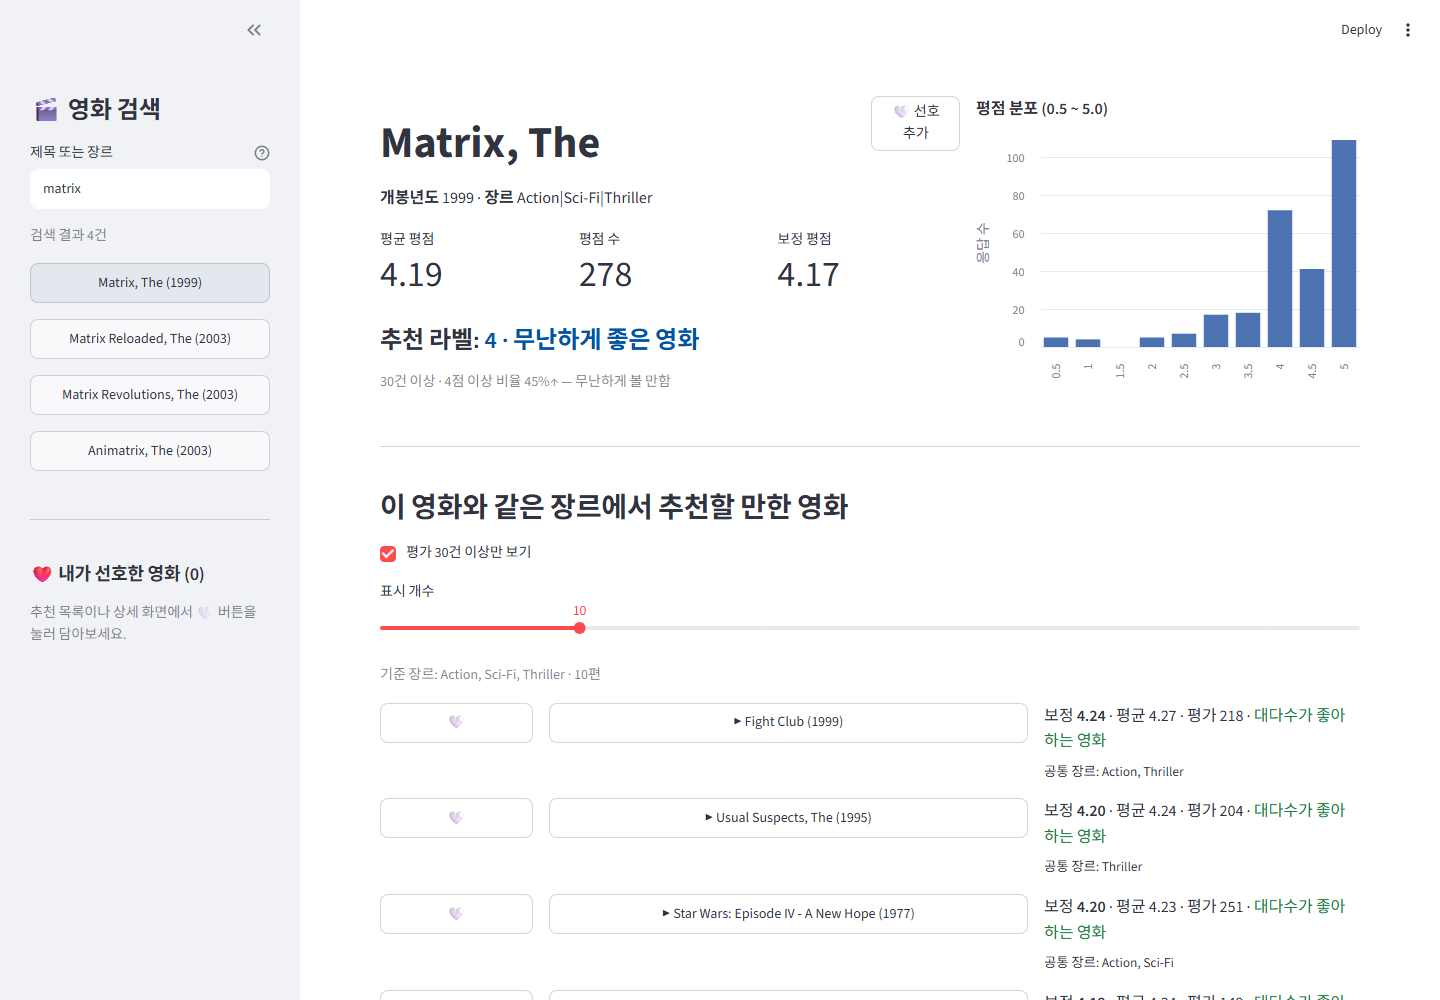
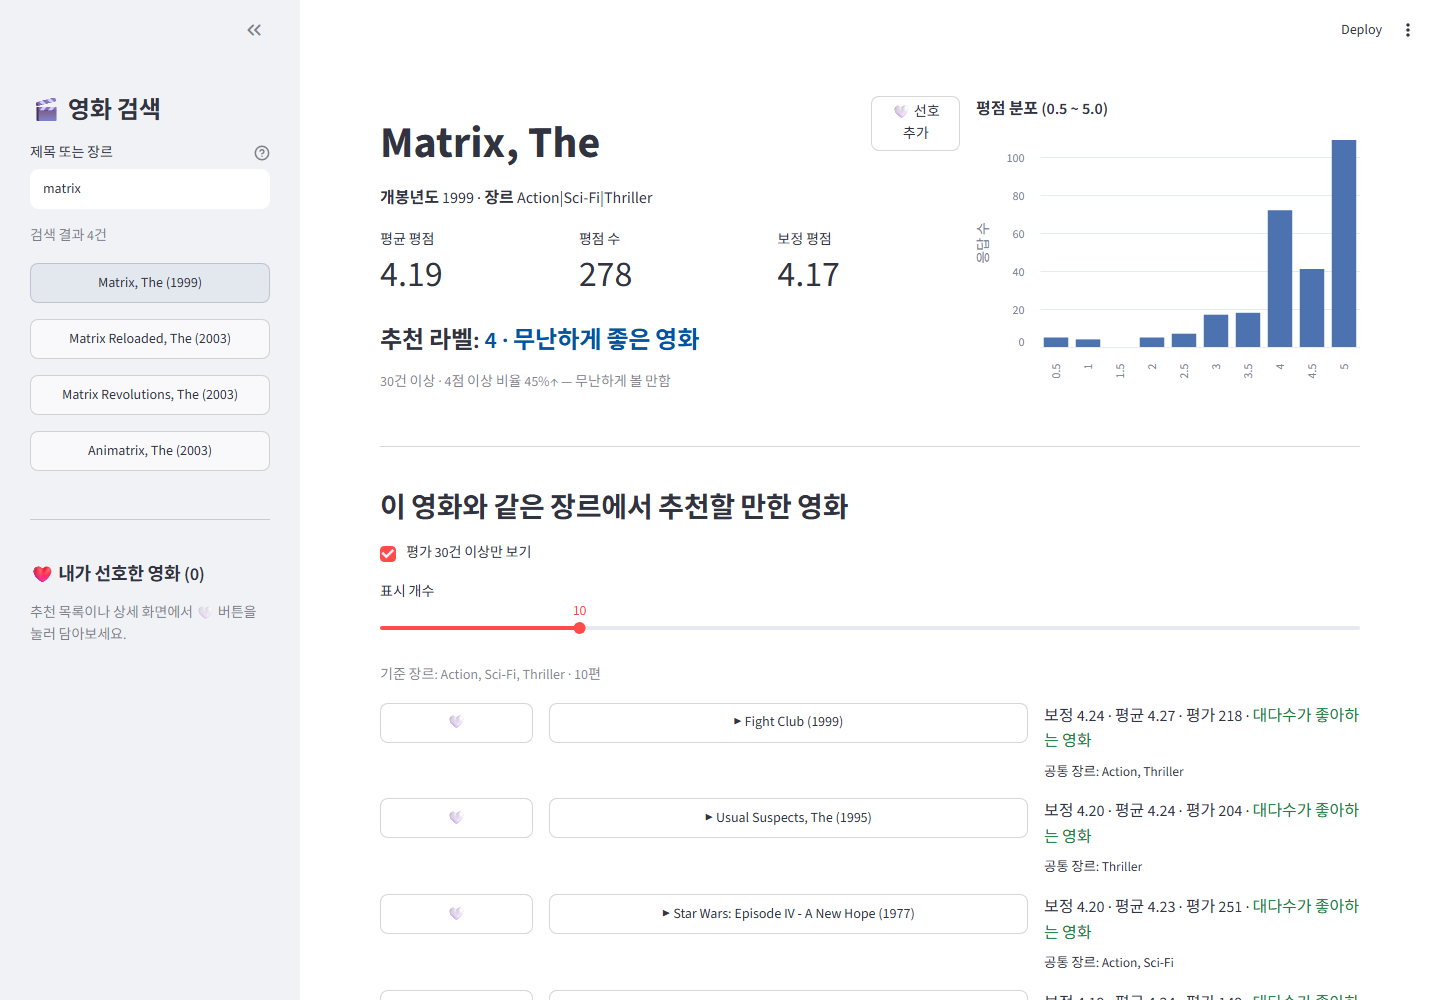
선호 영화 프로필(평균 장르 벡터) 기반 추천 섹션 추가
- streamlit_app.py: 선호 영화들의 장르 원-핫 벡터를 합산 후 선호 영화 수로 나눈
  '선호 장르 프로필' 벡터 생성 (build_favorite_profile), 코사인 유사도로 전체 영화 순위화
  - 유사도 0(겹치는 장르 없음/장르 정보 없음) 및 이미 선호한 영화는 제외
  - 동점은 bayesian_rating 내림차순
  - 첫 화면과 상세 화면 하단에 항상 노출
  - 행 렌더링 로직을 render_movie_row() 로 공통화(세 섹션 재사용)
- analysis/capture_dashboard.py: app_06_profile.png 캡처 추가
- README.md: 8-6 섹션 및 개요 문구 갱신

diff --git a/streamlit_app.py b/streamlit_app.py
@@ -8,6 +8,8 @@ data/processed/ 산출물을 바탕으로
   4) 영화 선택 시 상세: 제목·장르·개봉년도·평점 분포 막대그래프·평균 평점·추천 라벨
   5) 추천 리스트(및 상세)에서 하트 버튼으로 "선호 영화"에 담고, 사이드바에서 목록 확인
      (세션에만 저장 — 브라우저 새로고침/재시작 시 초기화됨)
+  6) 선호 영화가 여러 편이면, 그 영화들의 장르 원-핫 벡터를 합산한 뒤 선호 영화 수로
+     나눈 "선호 장르 프로필" 벡터를 만들어 별도로 추천 ("내 선호 영화 프로필 기반 추천")
 
 실행: 프로젝트 루트에서
     streamlit run streamlit_app.py
@@ -65,19 +67,33 @@ def load_genre_matrix() -> pd.DataFrame:
     return df.set_index("movieId")[genre_cols]
 
 
-def cosine_similarity_to(mid: int, matrix: pd.DataFrame) -> pd.Series | None:
-    """mid 의 장르 벡터와 matrix 의 모든 행 사이의 코사인 유사도.
-    mid 가 없거나 장르 정보가 전부 0(장르 없음)이면 None."""
-    if mid not in matrix.index:
-        return None
-    vec = matrix.loc[mid].to_numpy(dtype=float)
-    if vec.sum() == 0:
+def cosine_similarity_vec(vec, matrix: pd.DataFrame) -> pd.Series | None:
+    """vec(장르 원-핫/프로필 벡터) 와 matrix 의 모든 행 사이 코사인 유사도.
+    vec 이 전부 0(장르 정보 없음)이면 None."""
+    if vec is None or np.sum(vec) == 0:
         return None
     mat = matrix.to_numpy(dtype=float)
     dot = mat @ vec
     norms = np.linalg.norm(mat, axis=1) * np.linalg.norm(vec)
     sim = np.divide(dot, norms, out=np.zeros_like(dot, dtype=float), where=norms > 0)
     return pd.Series(sim, index=matrix.index, name="cosine_sim")
+
+
+def cosine_similarity_to(mid: int, matrix: pd.DataFrame) -> pd.Series | None:
+    """mid 영화의 장르 벡터 기준 코사인 유사도. mid 가 없으면 None."""
+    if mid not in matrix.index:
+        return None
+    return cosine_similarity_vec(matrix.loc[mid].to_numpy(dtype=float), matrix)
+
+
+def build_favorite_profile(fav_ids, matrix: pd.DataFrame) -> np.ndarray | None:
+    """선호 영화들의 장르 원-핫 벡터를 합산한 뒤 선호 영화 수로 나눈 평균 벡터.
+    (열별로 '이 장르를 가진 선호작의 비율'이 된다.) 유효한 선호작이 없으면 None."""
+    ids = [i for i in fav_ids if i in matrix.index]
+    if not ids:
+        return None
+    vecs = matrix.loc[ids].to_numpy(dtype=float)
+    return vecs.sum(axis=0) / len(ids)
 
 
 @st.cache_data
@@ -132,6 +148,87 @@ def toggle_favorite(mid: int):
         favs.discard(mid)
     else:
         favs.add(mid)
+
+
+def render_movie_row(row: pd.Series, key_prefix: str) -> None:
+    """하트 버튼 + 이동 버튼 + 요약 정보 한 줄. 여러 추천 리스트에서 공통으로 쓴다."""
+    yr = "" if pd.isna(row["release_year"]) else f" ({int(row['release_year'])})"
+    lab = int(row["rating_label"])
+    rid = row["movieId"]
+    is_fav = rid in st.session_state.favorites
+
+    col_fav, col_btn, col_info = st.columns([1, 3, 2])
+    col_fav.button(
+        "❤" if is_fav else "🤍",
+        key=f"fav_{key_prefix}_{rid}",
+        use_container_width=True,
+        on_click=toggle_favorite, args=(rid,),
+        help="선호 영화에서 제거" if is_fav else "선호 영화에 추가",
+    )
+    col_btn.button(
+        f"▶  {row['title']}{yr}",
+        key=f"go_{key_prefix}_{rid}",
+        use_container_width=True,
+        on_click=select_movie,
+        args=(rid,),
+    )
+
+    bits = []
+    if "cosine_sim" in row.index and pd.notna(row["cosine_sim"]):
+        bits.append(f"유사도 **{row['cosine_sim']:.3f}**")
+    bits.append(f"보정 {row['bayesian_rating']:.2f}")
+    bits.append(f"평균 {'-' if pd.isna(row['mean_rating']) else format(row['mean_rating'], '.2f')}")
+    bits.append(f"평가 {int(row['rating_count'])}")
+    bits.append(f":{LABEL_COLOR.get(lab, 'gray')}[{LABELS.get(lab, lab)}]")
+    line = " · ".join(bits)
+    if "shared" in row.index and row["shared"]:
+        line += f"  \n<sub>공통 장르: {', '.join(row['shared'])}</sub>"
+    col_info.markdown(line, unsafe_allow_html=True)
+
+
+def render_profile_section() -> None:
+    """선호 영화들의 평균 장르 벡터(프로필)로 만드는 추천 — 어느 화면에서든 표시."""
+    fav_ids = st.session_state.favorites
+    st.subheader("내 선호 영화 프로필 기반 추천")
+
+    if not fav_ids:
+        st.caption(
+            "❤ 선호 영화를 1편 이상 담으면, 선호작들의 장르를 (합산 ÷ 선호 영화 수)로 "
+            "평균 낸 '선호 장르 프로필' 벡터로 추천을 만들어 보여줍니다."
+        )
+        return
+    if genre_matrix is None:
+        st.info(f"`{GENRE_ONEHOT_CSV.relative_to(ROOT)}` 가 없습니다. `python run_all.py` 로 생성하세요.")
+        return
+
+    profile = build_favorite_profile(fav_ids, genre_matrix)
+    sims = cosine_similarity_vec(profile, genre_matrix)
+    if sims is None:
+        st.info("선호한 영화들에 장르 정보가 없어 프로필을 만들 수 없습니다.")
+        return
+
+    prof = pd.Series(profile, index=genre_matrix.columns)
+    prof = prof[prof > 0].sort_values(ascending=False)
+    st.caption(
+        f"선호 영화 {len(fav_ids)}편의 장르 평균(비율): "
+        + ", ".join(f"{g} {v:.0%}" for g, v in prof.items())
+    )
+
+    sims = sims.drop(index=[i for i in fav_ids if i in sims.index], errors="ignore")
+    sims = sims[sims > 0]  # 겹치는 장르가 하나도 없거나 장르 정보 없는 영화 제외
+
+    prof_df = pd.DataFrame({"movieId": sims.index, "cosine_sim": sims.to_numpy()})
+    prof_df = prof_df.merge(movies, on="movieId", how="left")
+    prof_df = prof_df.sort_values(
+        ["cosine_sim", "bayesian_rating"], ascending=[False, False]
+    )
+
+    topn_prof = st.slider("표시 개수", 5, 30, 10, key="profile_topn")
+    st.caption(f"프로필과 겹치는 영화 {len(prof_df)}편 중 상위 {min(topn_prof, len(prof_df))}편 "
+               "(선호 영화 자신은 제외)")
+
+    for _, row in prof_df.head(topn_prof).iterrows():
+        render_movie_row(row, "profile")
 
 
 # ----------------------------- 사이드바: 검색 -----------------------------
@@ -198,8 +295,11 @@ if mid is None or mid not in set(movies["movieId"]):
         "왼쪽에서 영화를 검색하고 선택하세요.\n\n"
         "- **검색**: 제목·장르로 찾기 (평가 수 무관)\n"
         "- **추천**: 선택한 영화와 같은 장르에서 보정 평점이 높은 영화\n"
-        "- **상세**: 제목·장르·개봉년도·평점 분포·평균 평점·추천 라벨"
+        "- **상세**: 제목·장르·개봉년도·평점 분포·평균 평점·추천 라벨\n"
+        "- **프로필 추천**: 선호 영화를 담을수록 아래 프로필 추천이 정교해집니다."
     )
+    st.markdown("---")
+    render_profile_section()
     st.stop()
 
 m = movies[movies["movieId"] == mid].iloc[0]
@@ -266,33 +366,7 @@ else:
     st.caption(f"기준 장르: {', '.join(sorted(target_genres))}  ·  {len(same)}편")
 
     for _, row in same.iterrows():
-        yr = "" if pd.isna(row["release_year"]) else f" ({int(row['release_year'])})"
-        lab = int(row["rating_label"])
-        rid = row["movieId"]
-        is_fav = rid in st.session_state.favorites
-        col_fav, col_btn, col_info = st.columns([1, 3, 2])
-        col_fav.button(
-            "❤" if is_fav else "🤍",
-            key=f"fav_r_{rid}",
-            use_container_width=True,
-            on_click=toggle_favorite, args=(rid,),
-            help="선호 영화에서 제거" if is_fav else "선호 영화에 추가",
-        )
-        col_btn.button(
-            f"▶  {row['title']}{yr}",
-            key=f"r_{rid}",
-            use_container_width=True,
-            on_click=select_movie,
-            args=(rid,),
-        )
-        col_info.markdown(
-            f"보정 **{row['bayesian_rating']:.2f}** · 평균 "
-            f"{'-' if pd.isna(row['mean_rating']) else format(row['mean_rating'], '.2f')} · "
-            f"평가 {int(row['rating_count'])} · "
-            f":{LABEL_COLOR.get(lab,'gray')}[{LABELS.get(lab, lab)}]  \n"
-            f"<sub>공통 장르: {', '.join(row['shared'])}</sub>",
-            unsafe_allow_html=True,
-        )
+        render_movie_row(row, "genre")
 
 st.markdown("---")
 
@@ -329,30 +403,9 @@ else:
         st.caption(f"장르 겹치는 영화 {len(sim_df)}편 중 상위 {min(topn_sim, len(sim_df))}편")
 
         for _, row in sim_df.head(topn_sim).iterrows():
-            yr = "" if pd.isna(row["release_year"]) else f" ({int(row['release_year'])})"
-            lab = int(row["rating_label"])
-            rid = row["movieId"]
-            is_fav = rid in st.session_state.favorites
-            col_fav, col_btn, col_info = st.columns([1, 3, 2])
-            col_fav.button(
-                "❤" if is_fav else "🤍",
-                key=f"fav_sim_{rid}",
-                use_container_width=True,
-                on_click=toggle_favorite, args=(rid,),
-                help="선호 영화에서 제거" if is_fav else "선호 영화에 추가",
-            )
-            col_btn.button(
-                f"▶  {row['title']}{yr}",
-                key=f"sim_{rid}",
-                use_container_width=True,
-                on_click=select_movie,
-                args=(rid,),
-            )
-            col_info.markdown(
-                f"유사도 **{row['cosine_sim']:.3f}** · 보정 {row['bayesian_rating']:.2f} · 평균 "
-                f"{'-' if pd.isna(row['mean_rating']) else format(row['mean_rating'], '.2f')} · "
-                f"평가 {int(row['rating_count'])} · "
-                f":{LABEL_COLOR.get(lab,'gray')}[{LABELS.get(lab, lab)}]  \n"
-                f"<sub>공통 장르: {', '.join(row['shared'])}</sub>",
-                unsafe_allow_html=True,
-            )
+            render_movie_row(row, "sim")
+
+st.markdown("---")
+
+# ---- 내 선호 영화 프로필 기반 추천 ----
+render_profile_section()

diff --git a/analysis/capture_dashboard.py b/analysis/capture_dashboard.py
@@ -86,6 +86,12 @@ def main() -> None:
             page.screenshot(path=OUT / "app_05_similar_genre.png")
             print("  ", OUT / "app_05_similar_genre.png")
 
+            # 내 선호 영화 프로필 기반 추천 (Chinatown + Shawshank Redemption 2편 기준)
+            page.get_by_text("내 선호 영화 프로필 기반 추천", exact=True).scroll_into_view_if_needed()
+            wait_idle(page, 1000)
+            page.screenshot(path=OUT / "app_06_profile.png")
+            print("  ", OUT / "app_06_profile.png")
+
             browser.close()
     finally:
         srv.terminate()
